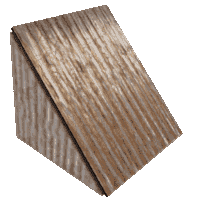
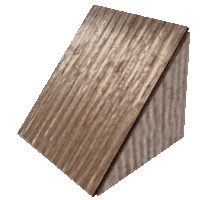
v.5.26.1 / fixed the roof walls / rotated the walls by 180 degrees by default / correct edge line in edit mode

diff --git a/src/components/script/PrebuiltBasesDesign.tsx b/src/components/script/PrebuiltBasesDesign.tsx
@@ -314,10 +314,10 @@ export default function PrebuiltBasesDesign() {
           [randomIdGenerator()]: { model: "GarageDoor", position: { x: 0.55, z: 2.3, y: 2.05 }, rotation: { isEuler: true, _x: 0, _y: object_north_west_3_direction, _z: 0, _order: "XYZ" } }, // prettier-ignore
           [randomIdGenerator()]: { model: material_type_test === "stone" ? "StoneFoundationSquareLow" : material_type_test === "metal" || material_type_test === "tutorial" ? "MetalFoundationSquareLow" : material_type_test === "armored" ? "ArmoredFoundationSquareLow" : null, position: { x: 2.4, z: 1.87, y: 0 }, rotation: { isEuler: true, _x: 0, _y: object_north_west_1_direction, _z: 0, _order: "XYZ" } }, // prettier-ignore
           [randomIdGenerator()]: { model: material_type_test === "stone" ? "StoneRoofSquare" : material_type_test === "metal" || material_type_test === "tutorial" ? "MetalRoofSquare" : material_type_test === "armored" ? "ArmoredRoofSquare" : null, position: { x: 3.25, z: 1.4, y: 0.05 }, rotation: { isEuler: true, _x: 0, _y: object_north_east_1_direction, _z: 0, _order: "XYZ" } }, // prettier-ignore
-          [randomIdGenerator()]: { model: material_type_test === "stone" ? "StoneRoofWallRight" : material_type_test === "metal" || material_type_test === "tutorial" ? "MetalRoofWallRight" : material_type_test === "armored" ? "ArmoredRoofWallRight" : null, position: { x: 2.35, z: 1.85, y: 0.05 }, rotation: { isEuler: true, _x: 0, _y: object_north_east_1_direction, _z: 0, _order: "XYZ" } }, // prettier-ignore
+          [randomIdGenerator()]: { model: material_type_test === "stone" ? "StoneRoofWallLeft" : material_type_test === "metal" || material_type_test === "tutorial" ? "MetalRoofWallLeft" : material_type_test === "armored" ? "ArmoredRoofWallLeft" : null, position: { x: 2.85, z: 2.75, y: 0.05 }, rotation: { isEuler: true, _x: 0, _y: object_south_west_1_direction, _z: 0, _order: "XYZ" } }, // prettier-ignore
           [randomIdGenerator()]: { model: material_type_test === "stone" ? "StoneFoundationSquareLow" : material_type_test === "metal" || material_type_test === "tutorial" ? "MetalFoundationSquareLow" : material_type_test === "armored" ? "ArmoredFoundationSquareLow" : null, position: { x: -2.4, z: 1.87, y: 0 }, rotation: { isEuler: true, _x: 0, _y: object_north_west_3_direction, _z: 0, _order: "XYZ" } }, // prettier-ignore
           [randomIdGenerator()]: { model: material_type_test === "stone" ? "StoneRoofSquare" : material_type_test === "metal" || material_type_test === "tutorial" ? "MetalRoofSquare" : material_type_test === "armored" ? "ArmoredRoofSquare" : null, position: { x: -3.25, z: 1.4, y: 0.05 }, rotation: { isEuler: true, _x: 0, _y: object_north_west_3_direction, _z: 0, _order: "XYZ" } }, // prettier-ignore
-          [randomIdGenerator()]: { model: material_type_test === "stone" ? "StoneRoofWallLeft" : material_type_test === "metal" || material_type_test === "tutorial" ? "MetalRoofWallLeft" : material_type_test === "armored" ? "ArmoredRoofWallLeft" : null, position: { x: -2.35, z: 1.85, y: 0.05 }, rotation: { isEuler: true, _x: 0, _y: object_north_west_3_direction, _z: 0, _order: "XYZ" } }, // prettier-ignore
+          [randomIdGenerator()]: { model: material_type_test === "stone" ? "StoneRoofWallRight" : material_type_test === "metal" || material_type_test === "tutorial" ? "MetalRoofWallRight" : material_type_test === "armored" ? "ArmoredRoofWallRight" : null, position: { x: -2.85, z: 2.75, y: 0.05 }, rotation: { isEuler: true, _x: 0, _y: object_south_east_3_direction, _z: 0, _order: "XYZ" } }, // prettier-ignore
           [randomIdGenerator()]: { model: material_type_test === "stone" || material_type_test === "tutorial" ? "StoneWindow" : material_type_test === "metal" ? "MetalWindow" : material_type_test === "armored" ? "ArmoredWindow" : null, position: { x: -0.5, z: -1.4, y: 4.05 }, rotation: { isEuler: true, _x: 0, _y: object_north_west_3_direction, _z: 0, _order: "XYZ" } }, // prettier-ignore
           [randomIdGenerator()]: { model: "StrenghtenedGlassWindow", position: { x: -0.5, z: -1.4, y: 4.05 }, rotation: { isEuler: true, _x: 0, _y: object_north_west_3_direction, _z: 0, _order: "XYZ" } }, // prettier-ignore
           [randomIdGenerator()]: { model: "MetalVerticalEmbrasure", position: { x: -0.5, z: -1.4, y: 4.05 }, rotation: { isEuler: true, _x: 0, _y: object_north_west_3_direction, _z: 0, _order: "XYZ" } }, // prettier-ignore

diff --git a/src/components/models/metal/MetalRoofWallLeft.tsx b/src/components/models/metal/MetalRoofWallLeft.tsx
@@ -7,14 +7,14 @@ import { ModelComponentsCommonLogic } from "../../script/ModelComponentsCommonLo
 
 type GLTFResult = GLTF & {
   nodes: {Cube002: THREE.Mesh}; //prettier-ignore
-  materials: {["Material.001"]: THREE.MeshStandardMaterial}}; //prettier-ignore
+  materials: {["Material.002"]: THREE.MeshStandardMaterial}}; //prettier-ignore
 
 export function Model(props: JSX.IntrinsicElements["group"]) {
   const page_mode = useSelector((state: RootState) => state.pageMode.page_mode); // prettier-ignore
   const roofs_active = useSelector((state: RootState) => state.modelsData.roofs_active); // prettier-ignore
   const enable_model_textures = useSelector((state: RootState) => state.pageSettings.enable_model_textures); // prettier-ignore
 
-  const { nodes, materials } = useGLTF("./models/metal/metal_roof_wall_textured.glb") as GLTFResult;
+  const { nodes, materials } = useGLTF("./models/metal/metal_roof_wall_left_textured.glb") as GLTFResult;
   const {defaultMeshKey, defaultMeshMaterial, ModelOnClick, ModelOnPointerOver, ModelOnPointerOut, ModelMissedClick, meshStandardMaterialColor, meshStandardMaterialWireframe, meshEdgesVisibility, meshAnnotationVisibility, model_destroyed } = ModelComponentsCommonLogic(); //prettier-ignore
   return (
     <>
@@ -23,14 +23,13 @@ export function Model(props: JSX.IntrinsicElements["group"]) {
           <mesh
             key={defaultMeshKey}
             geometry={nodes.Cube002.geometry}
-            {...defaultMeshMaterial(materials["Material.001"])}
+            {...defaultMeshMaterial(materials["Material.002"])}
             onClick={() => ModelOnClick(Model.displayName)}
             onPointerOver={(e) => {
               e.stopPropagation(), ModelOnPointerOver();
             }}
             onPointerOut={() => ModelOnPointerOut()}
             onPointerMissed={() => ModelMissedClick()}
-            scale={[-1, 1, 1]}
           >
             {enable_model_textures && page_mode === "edit" && (
               <>
@@ -50,5 +49,5 @@ export function Model(props: JSX.IntrinsicElements["group"]) {
   );
 }
 
-useGLTF.preload("./models/metal/metal_roof_wall_textured.glb");
+useGLTF.preload("./models/metal/metal_roof_wall_left_textured.glb");
 Model.displayName = "MetalRoofWallLeft";

diff --git a/src/components/models/stone/StoneRoofWallLeft.tsx b/src/components/models/stone/StoneRoofWallLeft.tsx
@@ -7,14 +7,14 @@ import { ModelComponentsCommonLogic } from "../../script/ModelComponentsCommonLo
 
 type GLTFResult = GLTF & {
   nodes: {Cube001: THREE.Mesh}; //prettier-ignore
-  materials: {["Material.006"]: THREE.MeshStandardMaterial}}; //prettier-ignore
+  materials: {["Material.003"]: THREE.MeshStandardMaterial}}; //prettier-ignore
 
 export function Model(props: JSX.IntrinsicElements["group"]) {
   const page_mode = useSelector((state: RootState) => state.pageMode.page_mode); // prettier-ignore
   const roofs_active = useSelector((state: RootState) => state.modelsData.roofs_active); // prettier-ignore
   const enable_model_textures = useSelector((state: RootState) => state.pageSettings.enable_model_textures); // prettier-ignore
 
-  const { nodes, materials } = useGLTF("./models/stone/stone_roof_wall_textured.glb") as GLTFResult;
+  const { nodes, materials } = useGLTF("./models/stone/stone_roof_wall_left_textured.glb") as GLTFResult;
   const {defaultMeshKey, defaultMeshMaterial, ModelOnClick, ModelOnPointerOver, ModelOnPointerOut, ModelMissedClick, meshStandardMaterialColor, meshStandardMaterialWireframe, meshEdgesVisibility, meshAnnotationVisibility, model_destroyed } = ModelComponentsCommonLogic(); //prettier-ignore
   return (
     <>
@@ -23,14 +23,13 @@ export function Model(props: JSX.IntrinsicElements["group"]) {
           <mesh
             key={defaultMeshKey}
             geometry={nodes.Cube001.geometry}
-            {...defaultMeshMaterial(materials["Material.006"])}
+            {...defaultMeshMaterial(materials["Material.003"])}
             onClick={() => ModelOnClick(Model.displayName)}
             onPointerOver={(e) => {
               e.stopPropagation(), ModelOnPointerOver();
             }}
             onPointerOut={() => ModelOnPointerOut()}
             onPointerMissed={() => ModelMissedClick()}
-            scale={[-1, 1, 1]}
           >
             {enable_model_textures && page_mode === "edit" && (
               <>
@@ -50,5 +49,5 @@ export function Model(props: JSX.IntrinsicElements["group"]) {
   );
 }
 
-useGLTF.preload("./models/stone/stone_roof_wall_textured.glb");
+useGLTF.preload("./models/stone/stone_roof_wall_left_textured.glb");
 Model.displayName = "StoneRoofWallLeft";

diff --git a/src/components/models/metal/MetalRoofWallRight.tsx b/src/components/models/metal/MetalRoofWallRight.tsx
@@ -7,14 +7,14 @@ import { ModelComponentsCommonLogic } from "../../script/ModelComponentsCommonLo
 
 type GLTFResult = GLTF & {
   nodes: {Cube002: THREE.Mesh}; //prettier-ignore
-  materials: {["Material.001"]: THREE.MeshStandardMaterial}}; //prettier-ignore
+  materials: {["Material.002"]: THREE.MeshStandardMaterial}}; //prettier-ignore
 
 export function Model(props: JSX.IntrinsicElements["group"]) {
   const page_mode = useSelector((state: RootState) => state.pageMode.page_mode); // prettier-ignore
   const roofs_active = useSelector((state: RootState) => state.modelsData.roofs_active); // prettier-ignore
   const enable_model_textures = useSelector((state: RootState) => state.pageSettings.enable_model_textures); // prettier-ignore
 
-  const { nodes, materials } = useGLTF("./models/metal/metal_roof_wall_textured.glb") as GLTFResult;
+  const { nodes, materials } = useGLTF("./models/metal/metal_roof_wall_right_textured.glb") as GLTFResult;
   const {defaultMeshKey, defaultMeshMaterial, ModelOnClick, ModelOnPointerOver, ModelOnPointerOut, ModelMissedClick, meshStandardMaterialColor, meshStandardMaterialWireframe, meshEdgesVisibility, meshAnnotationVisibility, model_destroyed } = ModelComponentsCommonLogic(); //prettier-ignore
   return (
     <>
@@ -23,7 +23,7 @@ export function Model(props: JSX.IntrinsicElements["group"]) {
           <mesh
             key={defaultMeshKey}
             geometry={nodes.Cube002.geometry}
-            {...defaultMeshMaterial(materials["Material.001"])}
+            {...defaultMeshMaterial(materials["Material.002"])}
             onClick={() => ModelOnClick(Model.displayName)}
             onPointerOver={(e) => {
               e.stopPropagation(), ModelOnPointerOver();
@@ -49,5 +49,5 @@ export function Model(props: JSX.IntrinsicElements["group"]) {
   );
 }
 
-useGLTF.preload("./models/metal/metal_roof_wall_textured.glb");
+useGLTF.preload("./models/metal/metal_roof_wall_right_textured.glb");
 Model.displayName = "MetalRoofWallRight";

diff --git a/src/components/models/stone/StoneRoofWallRight.tsx b/src/components/models/stone/StoneRoofWallRight.tsx
@@ -7,14 +7,14 @@ import { ModelComponentsCommonLogic } from "../../script/ModelComponentsCommonLo
 
 type GLTFResult = GLTF & {
   nodes: {Cube001: THREE.Mesh}; //prettier-ignore
-  materials: {["Material.006"]: THREE.MeshStandardMaterial}}; //prettier-ignore
+  materials: {["Material.003"]: THREE.MeshStandardMaterial}}; //prettier-ignore
 
 export function Model(props: JSX.IntrinsicElements["group"]) {
   const page_mode = useSelector((state: RootState) => state.pageMode.page_mode); // prettier-ignore
   const roofs_active = useSelector((state: RootState) => state.modelsData.roofs_active); // prettier-ignore
   const enable_model_textures = useSelector((state: RootState) => state.pageSettings.enable_model_textures); // prettier-ignore
 
-  const { nodes, materials } = useGLTF("./models/stone/stone_roof_wall_textured.glb") as GLTFResult;
+  const { nodes, materials } = useGLTF("./models/stone/stone_roof_wall_right_textured.glb") as GLTFResult;
   const {defaultMeshKey, defaultMeshMaterial, ModelOnClick, ModelOnPointerOver, ModelOnPointerOut, ModelMissedClick, meshStandardMaterialColor, meshStandardMaterialWireframe, meshEdgesVisibility, meshAnnotationVisibility, model_destroyed } = ModelComponentsCommonLogic(); //prettier-ignore
   return (
     <>
@@ -23,7 +23,7 @@ export function Model(props: JSX.IntrinsicElements["group"]) {
           <mesh
             key={defaultMeshKey}
             geometry={nodes.Cube001.geometry}
-            {...defaultMeshMaterial(materials["Material.006"])}
+            {...defaultMeshMaterial(materials["Material.003"])}
             onClick={() => ModelOnClick(Model.displayName)}
             onPointerOver={(e) => {
               e.stopPropagation(), ModelOnPointerOver();
@@ -49,5 +49,5 @@ export function Model(props: JSX.IntrinsicElements["group"]) {
   );
 }
 
-useGLTF.preload("./models/stone/stone_roof_wall_textured.glb");
+useGLTF.preload("./models/stone/stone_roof_wall_right_textured.glb");
 Model.displayName = "StoneRoofWallRight";

diff --git a/src/components/models/armored/ArmoredRoofWallLeft.tsx b/src/components/models/armored/ArmoredRoofWallLeft.tsx
@@ -14,7 +14,7 @@ export function Model(props: JSX.IntrinsicElements["group"]) {
   const roofs_active = useSelector((state: RootState) => state.modelsData.roofs_active); // prettier-ignore
   const enable_model_textures = useSelector((state: RootState) => state.pageSettings.enable_model_textures); // prettier-ignore
 
-  const { nodes, materials } = useGLTF("./models/armored/armored_roof_wall_textured.glb") as GLTFResult;
+  const { nodes, materials } = useGLTF("./models/armored/armored_roof_wall_left_textured.glb") as GLTFResult;
   const {defaultMeshKey, defaultMeshMaterial, ModelOnClick, ModelOnPointerOver, ModelOnPointerOut, ModelMissedClick, meshStandardMaterialColor, meshStandardMaterialWireframe, meshEdgesVisibility, meshAnnotationVisibility, model_destroyed } = ModelComponentsCommonLogic(); //prettier-ignore
   return (
     <>
@@ -30,7 +30,6 @@ export function Model(props: JSX.IntrinsicElements["group"]) {
             }}
             onPointerOut={() => ModelOnPointerOut()}
             onPointerMissed={() => ModelMissedClick()}
-            scale={[-1, 1, 1]}
           >
             {enable_model_textures && page_mode === "edit" && (
               <>
@@ -50,5 +49,5 @@ export function Model(props: JSX.IntrinsicElements["group"]) {
   );
 }
 
-useGLTF.preload("./models/armored/armored_roof_wall_textured.glb");
+useGLTF.preload("./models/armored/armored_roof_wall_left_textured.glb");
 Model.displayName = "ArmoredRoofWallLeft";

diff --git a/src/components/models/armored/ArmoredRoofWallRight.tsx b/src/components/models/armored/ArmoredRoofWallRight.tsx
@@ -14,7 +14,7 @@ export function Model(props: JSX.IntrinsicElements["group"]) {
   const roofs_active = useSelector((state: RootState) => state.modelsData.roofs_active); // prettier-ignore
   const enable_model_textures = useSelector((state: RootState) => state.pageSettings.enable_model_textures); // prettier-ignore
 
-  const { nodes, materials } = useGLTF("./models/armored/armored_roof_wall_textured.glb") as GLTFResult;
+  const { nodes, materials } = useGLTF("./models/armored/armored_roof_wall_right_textured.glb") as GLTFResult;
   const {defaultMeshKey, defaultMeshMaterial, ModelOnClick, ModelOnPointerOver, ModelOnPointerOut, ModelMissedClick, meshStandardMaterialColor, meshStandardMaterialWireframe, meshEdgesVisibility, meshAnnotationVisibility, model_destroyed } = ModelComponentsCommonLogic(); //prettier-ignore
   return (
     <>
@@ -49,5 +49,5 @@ export function Model(props: JSX.IntrinsicElements["group"]) {
   );
 }
 
-useGLTF.preload("./models/armored/armored_roof_wall_textured.glb");
+useGLTF.preload("./models/armored/armored_roof_wall_right_textured.glb");
 Model.displayName = "ArmoredRoofWallRight";

diff --git a/index.html b/index.html
@@ -8,7 +8,7 @@
     <meta name="keywords" content="rust, base, builder, build, raid, planner, maker, simulator, 3d, online, game, videogame, editor, creator, designer, threejs, fiber, 3d-models, r3f, gltfjsx"/>
     <meta name="language" content="en" />
     <meta name="google-site-verification" content="pB6bS8055ApLsTsb6sHITHibexMiDn1c6rtn6LySIQo" />
-    <title>Rust Base Builder v.5.26.0</title>
+    <title>Rust Base Builder v.5.26.1</title>
     <link rel="icon" href="./src/icons/favicon.png" type="image/x-icon" />
   </head>
   <body>

diff --git a/src/components/script/Version.tsx b/src/components/script/Version.tsx
@@ -1,3 +1,3 @@
 export default function Version() {
-  return <h2 className="version">Rust Base Builder v.5.26.0</h2>;
+  return <h2 className="version">Rust Base Builder v.5.26.1</h2>;
 }
